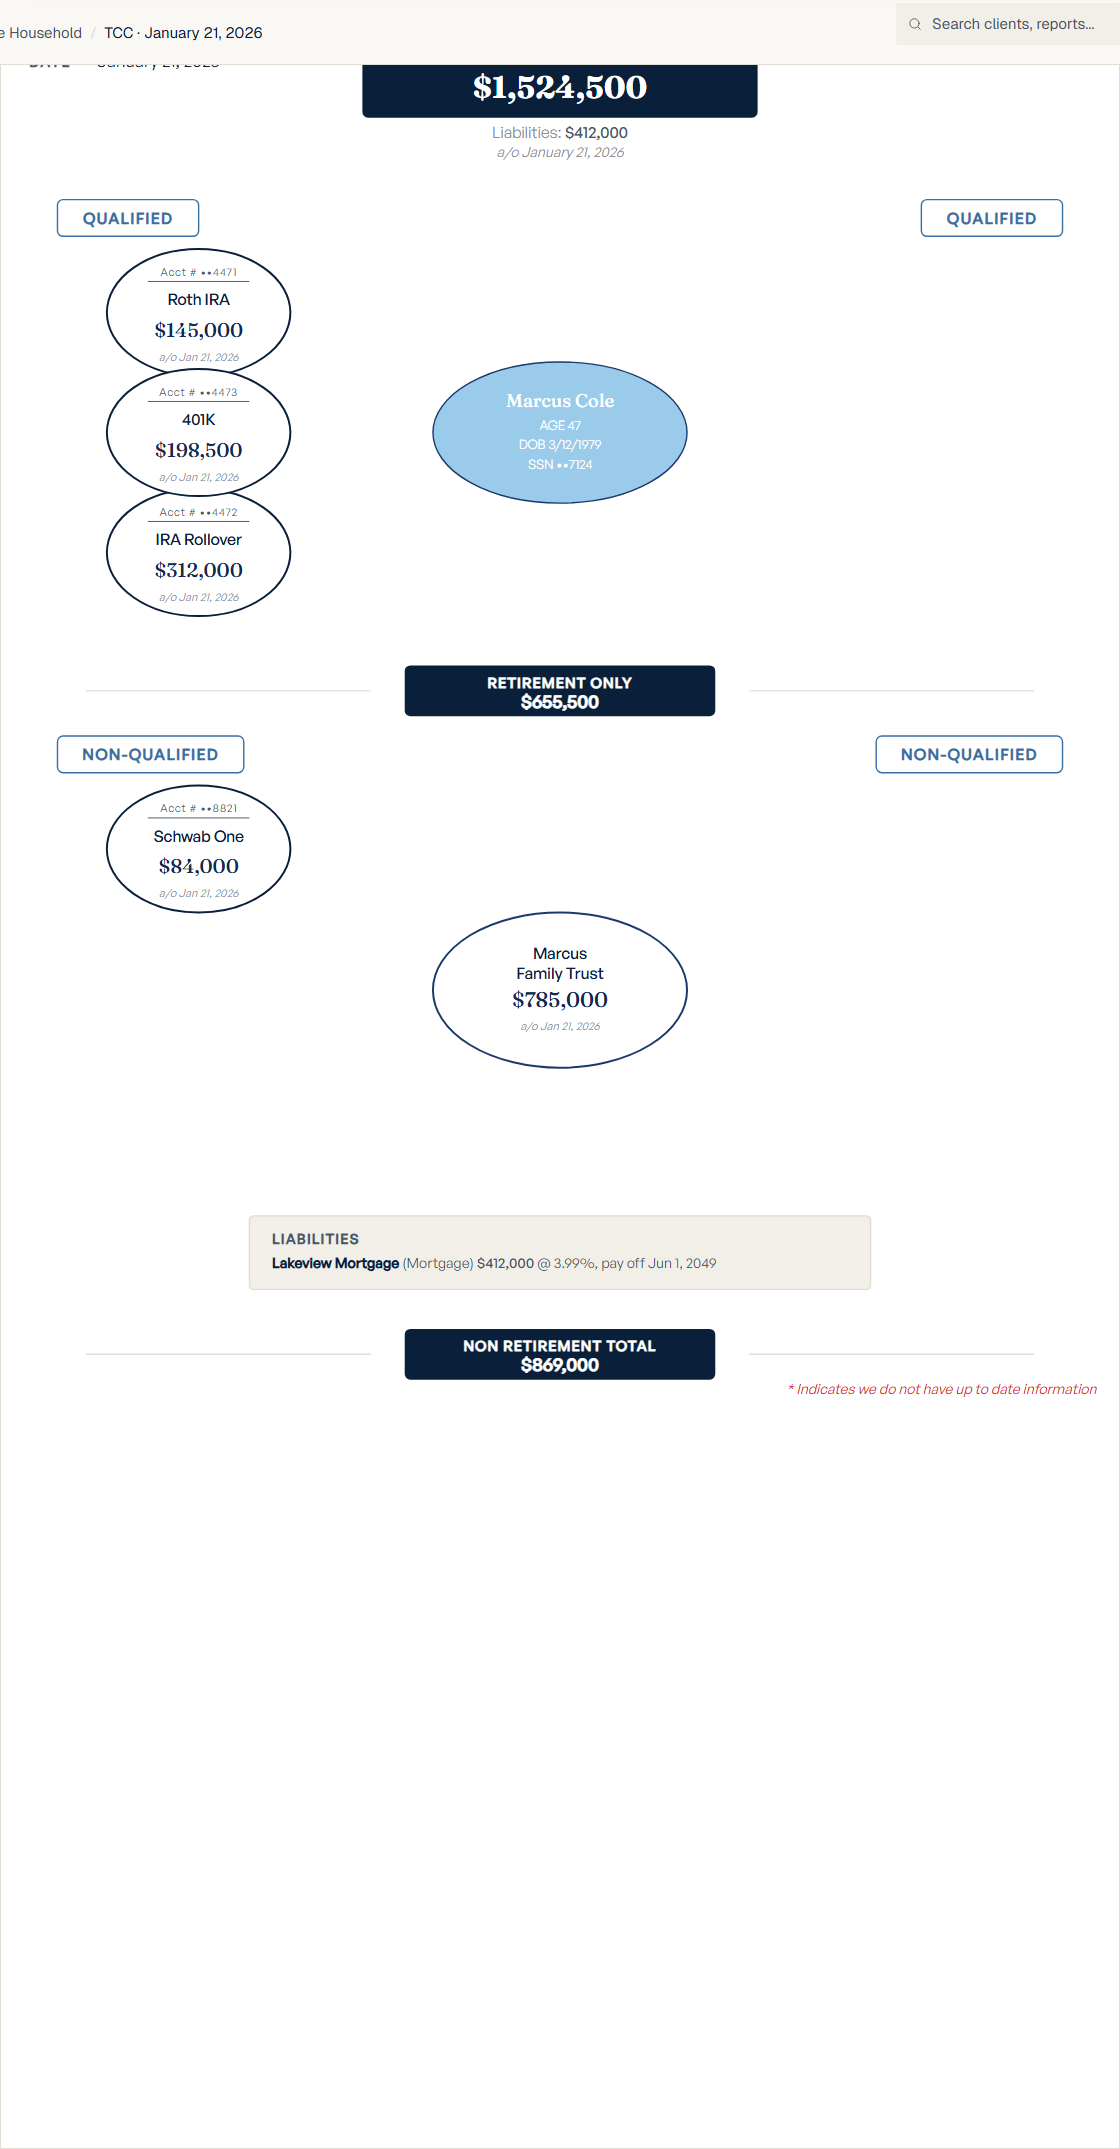
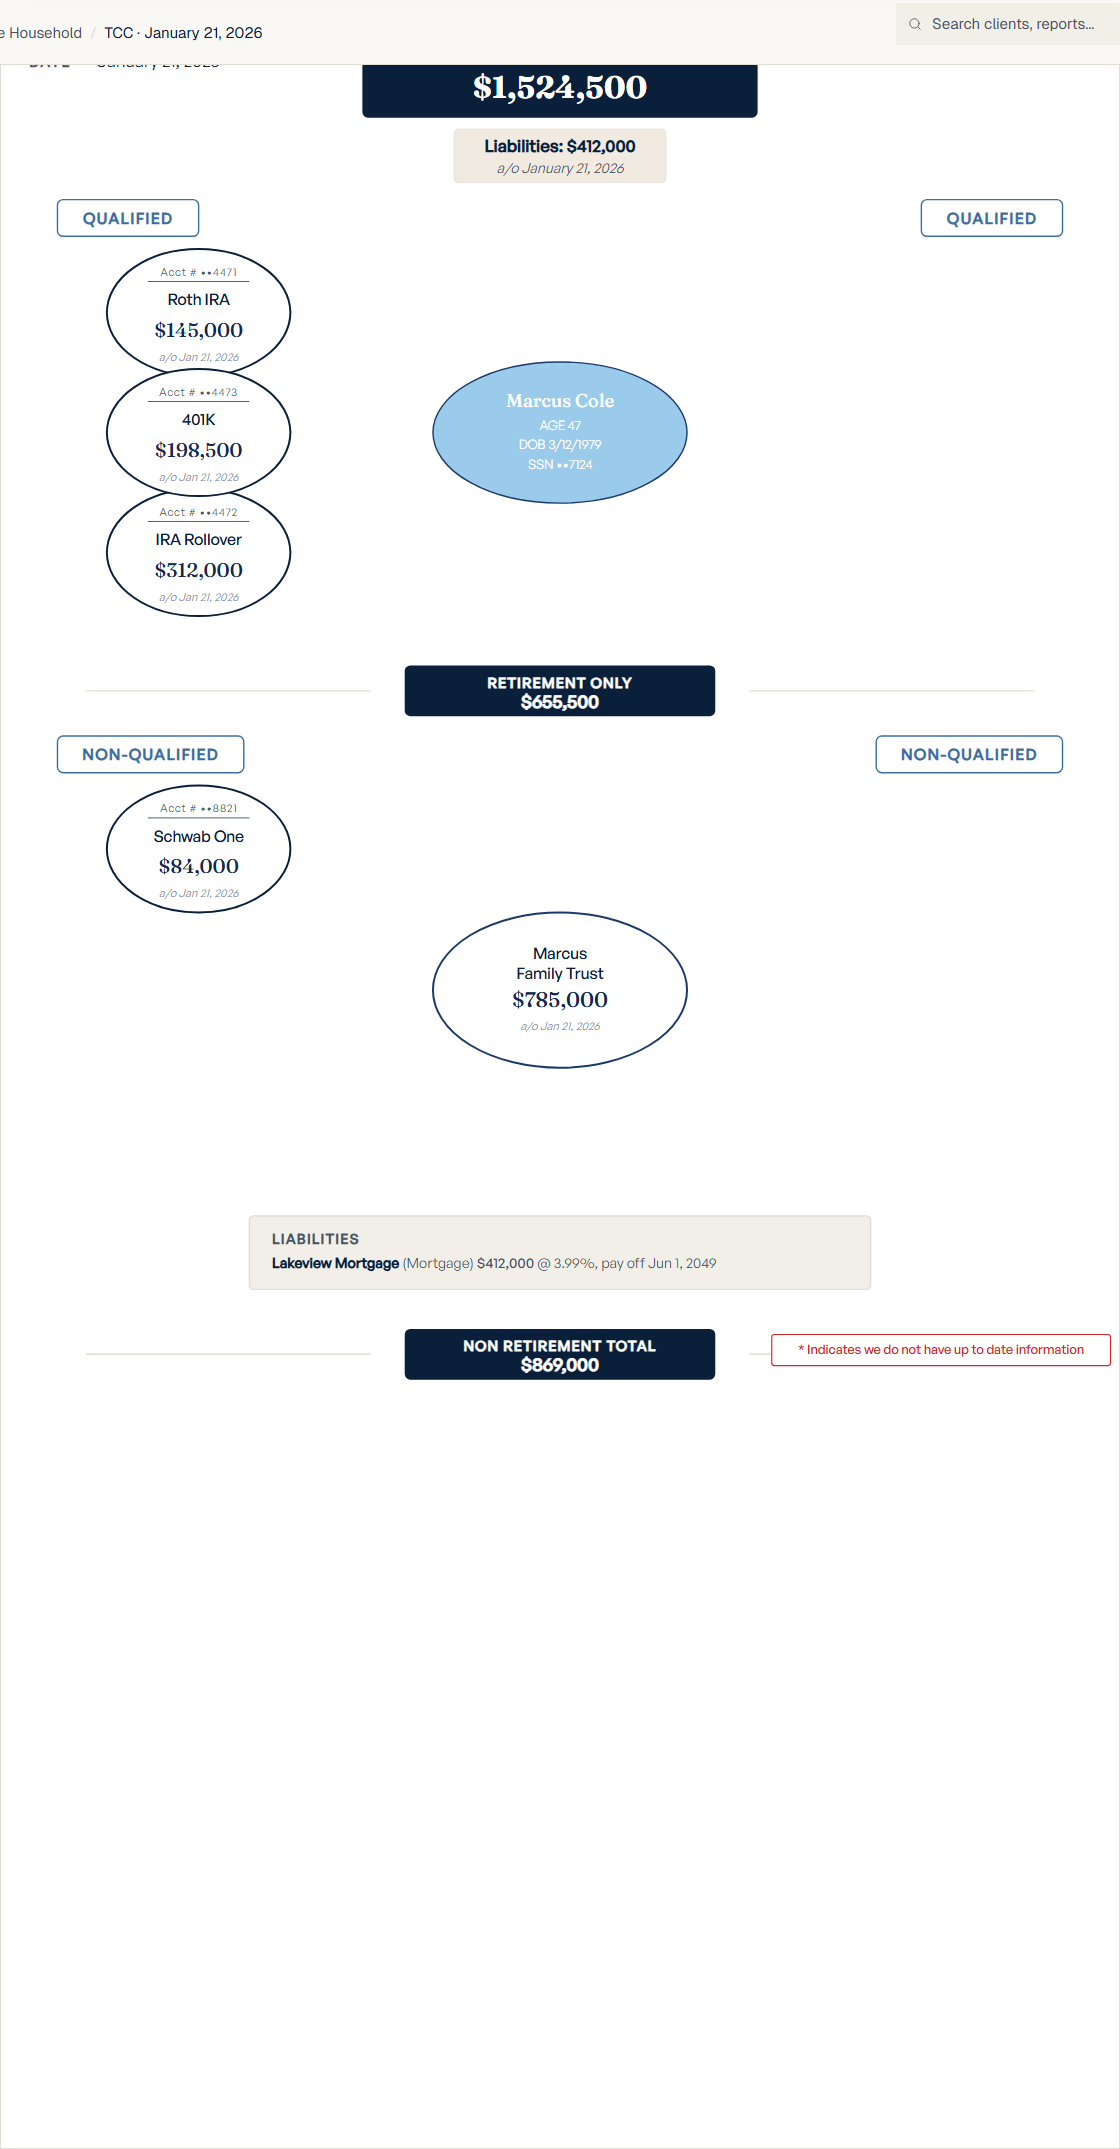
report update

Changed region(s): [[0.7188, 0.6235, 0.9688, 0.6547], [0.4062, 0.0624, 0.5938, 0.0935]]

diff --git a/windbrook-portal/src/reports/tcc/render.ts b/windbrook-portal/src/reports/tcc/render.ts
@@ -419,12 +419,18 @@ function grandTotalBox(s: TccSnapshot): string {
   const h = 70;
   const x = (CANVAS_W - w) / 2;
   const y = 12;
+  const grandTotalBottom = y + h;
   return `
   <rect x="${x}" y="${y}" width="${w}" height="${h}" rx="4" fill="${C_INK}"/>
   <text x="${PAGE_CENTER_X}" y="${y + 26}" text-anchor="middle" font-size="11" font-weight="500" letter-spacing="0.08em" fill="#FFFFFF">GRAND TOTAL</text>
   <text x="${PAGE_CENTER_X}" y="${y + 56}" text-anchor="middle" class="title num" font-size="22" font-weight="700" fill="#FFFFFF">${escapeXml(fmt(s.totals.grandTotalCents))}</text>
-  <text x="${PAGE_CENTER_X}" y="${y + h + 14}" text-anchor="middle" font-size="11" fill="${C_INK_SOFT}">Liabilities: <tspan class="num" fill="${C_INK_MUTED}" font-weight="500">${escapeXml(fmt(s.totals.liabilitiesTotalCents))}</tspan></text>
-  <text x="${PAGE_CENTER_X}" y="${y + h + 28}" text-anchor="middle" font-size="10" font-style="italic" fill="${C_INK_SOFT}">a/o ${escapeXml(fmtLongDate(s.asOfDate))}</text>`;
+
+  <!-- Liabilities pill — light-ivory rounded chip sitting below the Grand Total box -->
+  <g class="liabilities-pill">
+    <rect x="${PAGE_CENTER_X - 75}" y="${grandTotalBottom + 8}" width="150" height="38" rx="3" fill="#F0EAE0" stroke="${C_RULE}" stroke-width="0.5"/>
+    <text x="${PAGE_CENTER_X}" y="${grandTotalBottom + 24}" text-anchor="middle" font-size="12" font-weight="600" fill="${C_INK}">Liabilities: <tspan class="num">${escapeXml(fmt(s.totals.liabilitiesTotalCents))}</tspan></text>
+    <text x="${PAGE_CENTER_X}" y="${grandTotalBottom + 39}" text-anchor="middle" font-size="10" font-style="italic" fill="${C_INK_MUTED}">a/o ${escapeXml(fmtLongDate(s.asOfDate))}</text>
+  </g>`;
 }
 
 // =============================================================================
@@ -504,7 +510,13 @@ function liabilitiesTable(liabs: TccLiability[], x: number, y: number, w: number
 // Permanent disclaimer (Phase 33: always rendered)
 // =============================================================================
 function disclaimerFooter(): string {
-  return `<text x="${CANVAS_W - 16}" y="${CANVAS_H - 14}" text-anchor="end" font-size="10" font-style="italic" fill="${C_DANGER}">* Indicates we do not have up to date information</text>`;
+  const badgeX = 286;
+  const badgeW = 220;
+  const badgeY = NQ_TOTAL_BADGE_Y;
+  return `<g class="disclaimer-legend">
+    <rect x="${badgeX + badgeW + 40}" y="${badgeY + 4}" width="240" height="22" rx="2" fill="#FFFFFF" stroke="${C_DANGER}" stroke-width="0.8"/>
+    <text x="${badgeX + badgeW + 160}" y="${badgeY + 18}" text-anchor="middle" font-size="9" font-weight="500" fill="${C_DANGER}">* Indicates we do not have up to date information</text>
+  </g>`;
 }
 
 // =============================================================================
